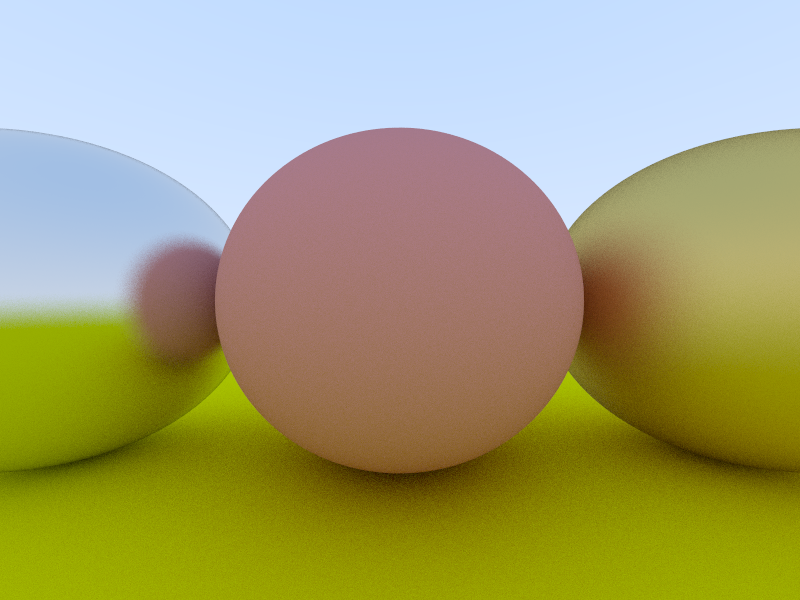
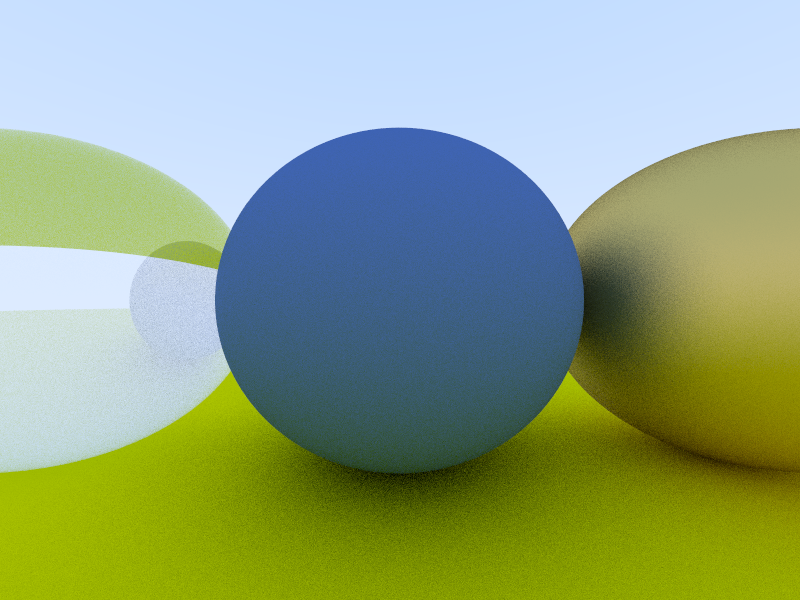
Glass.

diff --git a/raytracer/src/lib.rs b/raytracer/src/lib.rs
@@ -477,6 +477,7 @@ pub trait Scatterable {
 pub enum Material {
     Lambertian(Lambertian),
     Metal(Metal),
+    Glass(Glass),
 }
 
 impl Scatterable for Material {
@@ -484,6 +485,7 @@ impl Scatterable for Material {
         match self {
             Material::Lambertian(l) => l.scatter(ray, hit_record),
             Material::Metal(m) => m.scatter(ray, hit_record),
+            Material::Glass(g) => g.scatter(ray, hit_record),
         }
     }
 }
@@ -531,12 +533,84 @@ fn reflect(v: &Point3D, n: &Point3D) -> Point3D {
 impl Scatterable for Metal {
     fn scatter(&self, ray: &Ray, hit_record: &HitRecord) -> Option<(Ray, Srgb)> {
         let reflected = reflect(&ray.direction, &hit_record.normal);
-        let scattered = Ray::new(hit_record.point, reflected +  Point3D::random_in_unit_sphere() * self.fuzz);
+        let scattered = Ray::new(
+            hit_record.point,
+            reflected + Point3D::random_in_unit_sphere() * self.fuzz,
+        );
         let attenuation = self.albedo;
         if scattered.direction.dot(&hit_record.normal) > 0.0 {
             Some((scattered, attenuation))
         } else {
             None
+        }
+    }
+}
+
+#[derive(Debug, Clone, Copy)]
+pub struct Glass {
+    pub index_of_refraction: f64,
+}
+
+impl Glass {
+    pub fn new(index_of_refraction: f64) -> Glass {
+        Glass {
+            index_of_refraction,
+        }
+    }
+}
+
+fn refract(uv: &Point3D, n: &Point3D, etai_over_etat: f64) -> Point3D {
+    let cos_theta = ((-*uv).dot(n)).min(1.0);
+    let r_out_perp = (*uv + *n * cos_theta) * etai_over_etat;
+    let r_out_parallel = *n * (-1.0 * (1.0 - r_out_perp.length_squared()).abs().sqrt());
+    r_out_perp + r_out_parallel
+}
+
+fn reflectance(cosine: f64, ref_idx: f64) -> f64 {
+    let r0 = (1.0 - ref_idx) / (1.0 + ref_idx);
+    r0 * r0 + (1.0 - r0) * (1.0 - cosine).powi(5)
+}
+
+#[test]
+fn test_refract() {
+    let uv = Point3D::new(1.0, 1.0, 0.0);
+    let n = Point3D::new(-1.0, 0.0, 0.0);
+    let etai_over_etat = 1.0;
+    let expected = Point3D::new(0.0, 1.0, 0.0);
+    let actual = refract(&uv, &n, etai_over_etat);
+    assert_eq!(actual, expected);
+}
+
+#[test]
+fn test_reflectance() {
+    let cosine = 0.0;
+    let ref_idx = 1.5;
+    let expected = 1.24;
+    let actual = reflectance(cosine, ref_idx);
+    assert_eq!(actual, expected);
+}
+
+impl Scatterable for Glass {
+    fn scatter(&self, ray: &Ray, hit_record: &HitRecord) -> Option<(Ray, Srgb)> {
+        let mut rng = rand::thread_rng();
+        let attenuation = Srgb::new(1.0 as f32, 1.0 as f32, 1.0 as f32);
+        let refraction_ratio = if hit_record.front_face {
+            1.0 / self.index_of_refraction
+        } else {
+            self.index_of_refraction
+        };
+        let unit_direction = ray.direction.unit_vector();
+        let cos_theta = (-unit_direction).dot(&hit_record.normal).min(1.0);
+        let sin_theta = (1.0 - cos_theta * cos_theta).sqrt();
+        let cannot_refract = refraction_ratio * sin_theta > 1.0;
+        if cannot_refract || reflectance(cos_theta, refraction_ratio) > rng.gen::<f64>() {
+            let reflected = reflect(&unit_direction, &hit_record.normal);
+            let scattered = Ray::new(hit_record.point, reflected);
+            Some((scattered, attenuation))
+        } else {
+            let direction = refract(&unit_direction, &hit_record.normal, refraction_ratio);
+            let scattered = Ray::new(hit_record.point, direction);
+            Some((scattered, attenuation))
         }
     }
 }

diff --git a/raytracer/src/main.rs b/raytracer/src/main.rs
@@ -7,6 +7,7 @@ use std::env;
 use std::fs::File;
 
 use raytracer::Camera;
+use raytracer::Glass;
 use raytracer::HitRecord;
 use raytracer::Hittable;
 use raytracer::Lambertian;
@@ -85,7 +86,7 @@ fn test_ray_color() {
 fn render(pixels: &mut [u8], bounds: (usize, usize)) {
     assert!(pixels.len() == bounds.0 * bounds.1 * 3);
 
-    let samples_per_pixel = 8;
+    let samples_per_pixel = 6;
 
     let camera = Camera::new(
         Point3D::new(0.0, 0.0, 0.0),
@@ -98,10 +99,13 @@ fn render(pixels: &mut [u8], bounds: (usize, usize)) {
         0.8 as f32, 0.8 as f32, 0.0 as f32,
     )));
     let material_center = Material::Lambertian(Lambertian::new(Srgb::new(
-        0.7 as f32, 0.3 as f32, 0.3 as f32,
+        0.1 as f32, 0.2 as f32, 0.5 as f32,
     )));
-    let material_left = Material::Metal(Metal::new(Srgb::new(0.8 as f32, 0.8 as f32, 0.8 as f32), 0.3));
-    let material_right = Material::Metal(Metal::new(Srgb::new(0.8 as f32, 0.6 as f32, 0.2 as f32), 1.0));
+    let material_left = Material::Glass(Glass::new(3.0));
+    let material_right = Material::Metal(Metal::new(
+        Srgb::new(0.8 as f32, 0.6 as f32, 0.2 as f32),
+        1.0,
+    ));
 
     let mut world: Vec<Sphere> = Vec::new();
     world.push(Sphere::new(
